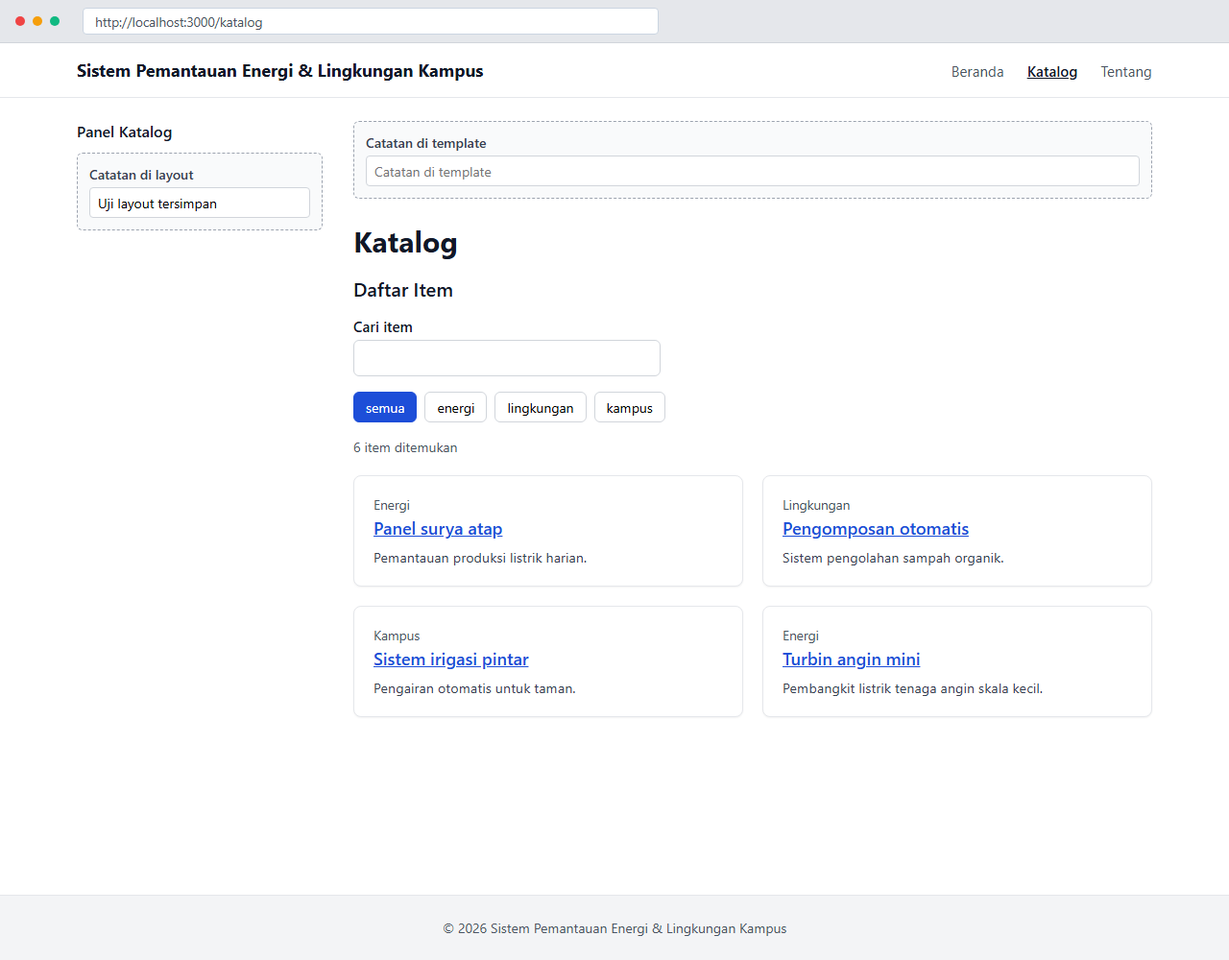
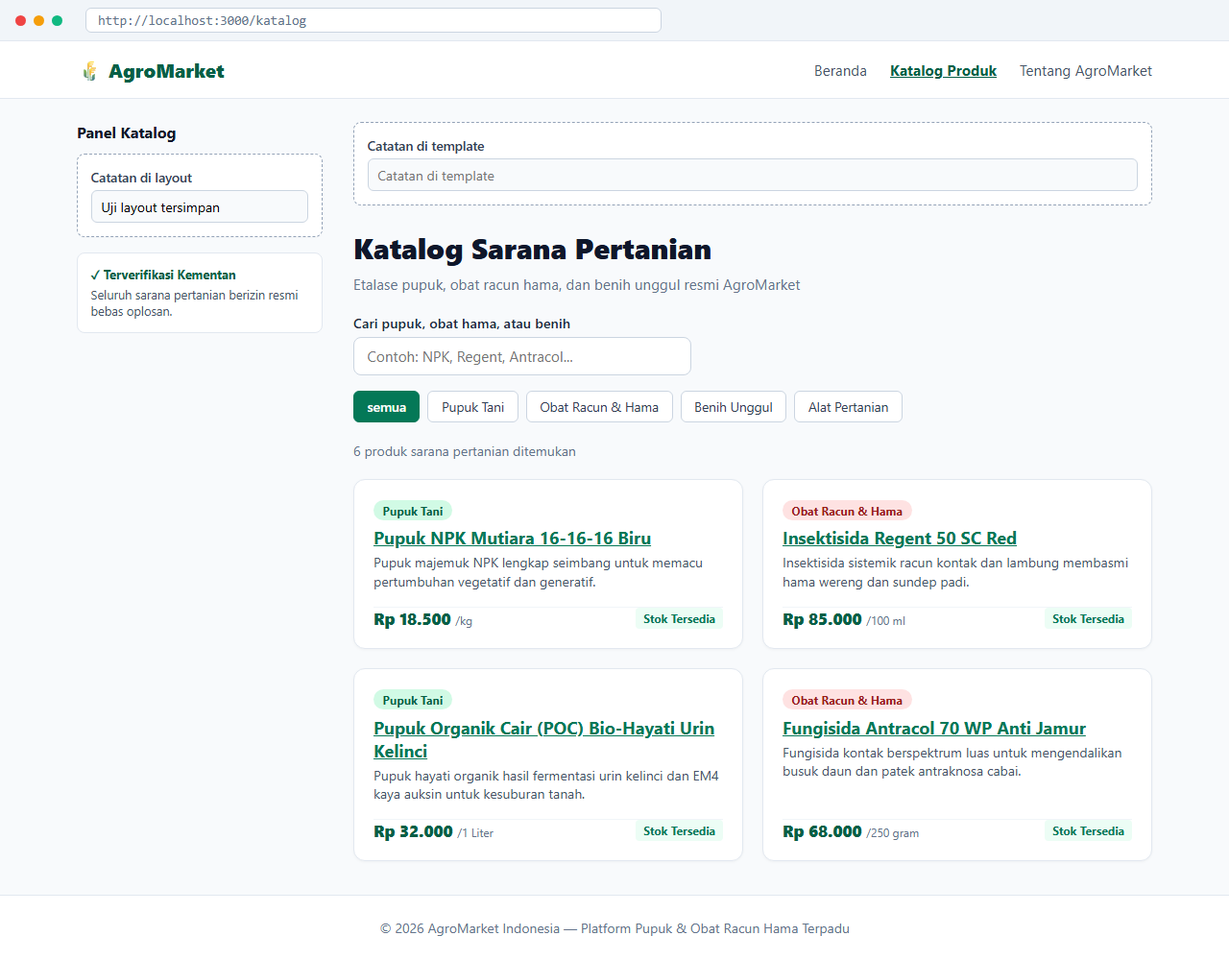
docs: sesuaikan dokumen teknis modul 4 dengan produk AgroMarket

diff --git a/docs/praktikum/modul-04.md b/docs/praktikum/modul-04.md
@@ -8,23 +8,23 @@
 
 ## 1. Peta Rute
 
-Aplikasi produk **Sistem Pemantauan Energi & Lingkungan Kampus** dibangun menggunakan arsitektur berkas Next.js App Router yang mendefinisikan rute berdasarkan hierarki direktori di dalam folder `app/`. Pada Modul 4 ini, sistem menyediakan minimal 4 rute fungsional yang terdiri atas 3 rute statis dan 1 rute dinamis berbasis parameter segmen.
+Aplikasi produk **AgroMarket** (Platform Marketplace Sarana Pertanian, Pupuk & Pestisida Terpadu Berizin Kementan RI) dibangun menggunakan arsitektur berkas Next.js App Router yang mendefinisikan rute berdasarkan hierarki direktori di dalam folder `app/`. Pada Modul 4 ini, sistem menyediakan minimal 4 rute fungsional yang terdiri atas 3 rute statis dan 1 rute dinamis berbasis parameter segmen `[id]`.
 
-### Tabel Rute Aplikasi
+### Tabel Rute Aplikasi AgroMarket
 
 | URL | Berkas di `app/` | Jenis Rute | Deskripsi dan Isi Halaman |
 |---|---|---|---|
-| `/` | `app/page.tsx` | Statis (`○ Static`) | **Halaman Beranda**: Menampilkan hero section platform, penjelasan alur cara kerja sensor cerdas kampus (`Bagian`), ringkasan item produk terkini via `ItemTerbaru` (Server Component), serta formulir kontak. |
-| `/katalog` | `app/katalog/page.tsx` | Statis (`○ Static`) | **Halaman Katalog**: Menampilkan judul katalog serta memuat komponen interaktif `DaftarItem` yang menyediakan pencarian teks langsung dan filter kategori multi-kriteria terhadap data `daftarItem`. |
-| `/katalog/[id]` | `app/katalog/[id]/page.tsx` | Dinamis (`◐ Partial Prerender`) | **Halaman Detail Item Produk**: Menerima parameter segmen `id` secara asinkron (`params: Promise<{ id: string }>`), memvalidasi pola regex bilangan bulat positif, mencari entitas item pada modul `lib/data.ts`, serta menampilkan detail lengkap item (kategori, judul, deskripsi, status ketersediaan) beserta tombol kembali. Rute ini juga mendefinisikan `generateStaticParams` untuk pra-render data statis saat build. |
-| `/tentang` | `app/tentang/page.tsx` | Statis (`○ Static`) | **Halaman Tentang**: Menyajikan narasi profil produk, latar belakang masalah pemantauan energi terbarukan dan kualitas udara kampus, sasaran pengguna (pengelola fasilitas & sivitas akademika), serta fitur-fitur utama sistem. |
-| `/_not-found` | `app/not-found.tsx` | Statis (`○ Static`) | **Halaman Penanganan Rute Tidak Dikenal Global**: Menangkap permintaan URL yang tidak terdaftar di rute mana pun pada aplikasi dan menampilkan pesan standar *"Halaman tidak ditemukan"*. |
+| `/` | `app/page.tsx` | Statis (`○ Static`) | **Halaman Beranda & Etalase Produk**: Menampilkan hero section promosi pupuk & pestisida resmi terverifikasi Kementan RI, alur SOP distribusi sarana pertanian untuk memberantas peredaran obat palsu, ringkasan produk pertanian unggulan via `ItemTerbaru` (Server Component), serta tautan jelajah katalog. |
+| `/katalog` | `app/katalog/page.tsx` | Statis (`○ Static`) | **Halaman Katalog Sarana Pertanian**: Menampilkan etalase katalog komprehensif produk pupuk tani, obat racun hama, benih unggul, dan alat pertanian melalui komponen interaktif `DaftarItem` dengan pencarian instan dan penyaring multi-kategori. |
+| `/katalog/[id]` | `app/katalog/[id]/page.tsx` | Dinamis (`◐ Partial Prerender`) | **Halaman Detail Produk & SOP Dosis Keamanan**: Menerima parameter segmen `id` secara asinkron (`params: Promise<{ id: string }>`), memvalidasi pola regex bilangan bulat positif, mencari entitas produk pada modul `lib/data.ts`, serta menampilkan detail teknis produk (nomor izin pendaftaran Kementan RI, komposisi bahan aktif, panduan takaran dosis aplikasi semprot, peringatan bahaya bahan kimia beracun, asal distributor, dan status stok) beserta tombol kembali ke katalog. Rute ini mendefinisikan `generateStaticParams()` untuk pra-render data statis saat build. |
+| `/tentang` | `app/tentang/page.tsx` | Statis (`○ Static`) | **Halaman Tentang AgroMarket**: Menyajikan narasi profil dan visi platform dalam menanggulangi peredaran pupuk/pestisida oplosan, edukasi standar SOP APD saat penyemprotan bahan kimia pertanian, serta transparansi informasi harga komoditas dan sarana produksi pertanian. |
+| `/_not-found` | `app/not-found.tsx` | Statis (`○ Static`) | **Halaman Penanganan Rute Global Tidak Dikenal**: Menangkap permintaan URL yang tidak terdaftar di rute mana pun pada aplikasi dan menampilkan pesan standar *"Halaman tidak ditemukan"*. |
 
 ---
 
 ### Potongan Tabel Rute dari Keluaran `npm run build`
 
-Berikut adalah bukti rekaman keluaran terminal eksekusi perintah kompilasi produksi `npm run build` pada rilis Next.js 16.4.2 (dengan engine Turbopack):
+Berikut adalah bukti rekaman keluaran terminal eksekusi kompilasi produksi `npm run build` pada rilis Next.js 16.4.2 (engine Turbopack):
 
 ```text
 > modul-4@0.1.0 build
@@ -32,22 +32,22 @@ Berikut adalah bukti rekaman keluaran terminal eksekusi perintah kompilasi produ
 
 ▲ Next.js 16.4.2 (Turbopack)
 
-✓ Running next.config.ts took 23ms
+✓ Running next.config.ts took 32ms
 - Cache Components enabled
 - Partial Prefetching enabled
 - Experiments (use with caution):
   ✓ agentFeedback
 
   Creating an optimized production build ...
-✓ Compiled successfully in 799ms
+✓ Compiled successfully in 531ms
   Running TypeScript ...
-  Finished TypeScript in 1440ms ...
+  Finished TypeScript in 1350ms ...
   Collecting page data using 8 workers ...
   Generating static pages using 8 workers (0/13) ...
   Generating static pages using 8 workers (3/13) 
   Generating static pages using 8 workers (6/13) 
   Generating static pages using 8 workers (9/13) 
-✓ Generating static pages using 8 workers (13/13) in 979ms
+✓ Generating static pages using 8 workers (13/13) in 962ms
   Finalizing page optimization ...
 
 Route (app)
@@ -68,7 +68,7 @@ Route (app)
 
 > **Analisis Simbol Build:**
 > - Simbol `○` (*Static*): Rute `/`, `/_not-found`, `/katalog`, dan `/tentang` dipra-render sepenuhnya menjadi berkas HTML statis saat proses build berlangsung karena tidak membutuhkan data dinamis sisi server saat runtime.
-> - Simbol `◐` (*Partial Prerender*): Rute dinamis `/katalog/[id]` menggunakan model *Partial Prerendering (PPR)* di mana shell halaman dirender secara statis dan konten dinamis berbasis streaming dapat diproses secara fleksibel. Berkat fungsi `generateStaticParams()`, Next.js berhasil menghasilkan rute statis awal untuk seluruh item katalog (`/katalog/1` s.d. `/katalog/6`).
+> - Simbol `◐` (*Partial Prerender*): Rute dinamis `/katalog/[id]` menggunakan model *Partial Prerendering (PPR)* di mana shell halaman dirender secara statis dan konten dinamis berbasis streaming dapat diproses secara fleksibel. Berkat fungsi `generateStaticParams()`, Next.js berhasil menghasilkan rute statis awal untuk seluruh produk katalog AgroMarket (`/katalog/1` s.d. `/katalog/6`).
 
 ---
 
@@ -82,20 +82,20 @@ Struktur penempatan berkas khusus (*special files*) pada direktori `app/` mengik
 app/
 ├── favicon.ico
 ├── globals.css
-├── layout.tsx                  # Root Layout (Kerangka global: <html>, <body>, Header, Footer)
+├── layout.tsx                  # Root Layout (Kerangka global: <html>, <body>, Header AgroMarket, Footer)
 ├── not-found.tsx               # Penanganan URL global tidak valid (HTTP 404)
-├── page.tsx                    # Halaman Beranda (/)
+├── page.tsx                    # Halaman Beranda AgroMarket (/)
 ├── katalog/
 │   ├── layout.tsx              # Nested Layout segmen /katalog (mempertahankan state panel layout)
 │   ├── template.tsx            # Nested Template segmen /katalog (reset/remount state saat navigasi anak)
 │   ├── loading.tsx             # Fallback <Suspense> otomatis untuk segmen katalog
 │   ├── error.tsx               # Error boundary segmen katalog ("use client")
-│   ├── page.tsx                # Halaman Katalog (/katalog)
+│   ├── page.tsx                # Halaman Katalog Sarana Pertanian (/katalog)
 │   └── [id]/
-│       ├── page.tsx            # Rute Dinamis Detail Item (/katalog/[id])
-│       └── not-found.tsx       # Tampilan khusus jika ID tidak valid / data tidak ditemukan
+│       ├── page.tsx            # Rute Dinamis Detail Produk AgroMarket (/katalog/[id])
+│       └── not-found.tsx       # Tampilan khusus jika ID tidak valid / produk tidak terdaftar
 └── tentang/
-    └── page.tsx                # Halaman Statis Tentang (/tentang)
+    └── page.tsx                # Halaman Statis Tentang AgroMarket (/tentang)
 ```
 
 ```mermaid
@@ -103,7 +103,7 @@ flowchart TD
     subgraph RootSeg ["Segmen Root (app/)"]
         RL["layout.tsx<br/><i>(RootLayout - Server)</i>"]
         RNF["not-found.tsx<br/><i>(Global 404 - Server)</i>"]
-        RP["page.tsx<br/><i>(Beranda / - Server)</i>"]
+        RP["page.tsx<br/><i>(Beranda AgroMarket / - Server)</i>"]
     end
 
     subgraph TentangSeg ["Segmen Tentang (app/tentang/)"]
@@ -115,11 +115,11 @@ flowchart TD
         KT["template.tsx<br/><i>(TemplateKatalog - Server)</i>"]
         KLD["loading.tsx<br/><i>(Loading UI - Server)</i>"]
         KE["error.tsx<br/><i>(Error Boundary - Client)</i>"]
-        KP["page.tsx<br/><i>(Katalog /katalog - Server)</i>"]
+        KP["page.tsx<br/><i>(Katalog Produk /katalog - Server)</i>"]
         
         subgraph DetailSeg ["Segmen Dinamis (app/katalog/[id]/)"]
             DP["page.tsx<br/><i>(HalamanDetailItem - Server)</i>"]
-            DNF["not-found.tsx<br/><i>(Item Tidak Ditemukan - Server)</i>"]
+            DNF["not-found.tsx<br/><i>(Produk Tidak Ditemukan - Server)</i>"]
         end
     end
 
@@ -140,21 +140,21 @@ flowchart TD
 
 Next.js membedakan peran arsitektural antara `layout.tsx` dan `template.tsx`:
 - **`layout.tsx`** berperan sebagai kerangka pembungkus bersama yang **dipertahankan (*persisted*)** di sepanjang siklus hidup navigasi segmen anak. Pohon komponen DOM tidak dihancurkan ulang (*no re-mount*), sehingga nilai state reaktif yang dikelola oleh Client Component di dalamnya (seperti `useState` pada `KolomCatatan label="Catatan di layout"`) akan **tetap tersimpan utuh**.
-- **`template.tsx`** berperan membungkus setiap segmen anak namun secara sengaja diberikan *unique key* oleh internal router Next.js pada setiap transisi rute. Ketika pengguna berpindah antar segmen anak (misalnya dari rute `/katalog` masuk ke rute `/katalog/1`, lalu kembali ke `/katalog`), seluruh instans template **dihancurkan dan dipasang ulang (*remounted*) dari nol**, menyebabkan nilai state reaktif (`useState` pada `KolomCatatan label="Catatan di template"`) **kembali kosong/ter-reset**.
+- **`template.tsx`** berperan membungkus setiap segmen anak namun secara sengaja diberikan *unique key* oleh internal router Next.js pada setiap transisi rute. Ketika pengguna berpindah antar segmen anak (misalnya dari rute `/katalog` masuk ke rute detail `/katalog/1`, lalu kembali ke `/katalog`), seluruh instans template **dihancurkan dan dipasang ulang (*remounted*) dari nol**, menyebabkan nilai state reaktif (`useState` pada `KolomCatatan label="Catatan di template"`) **kembali kosong/ter-reset**.
 
-#### Verifikasi Pengujian Layout vs Template:
+#### Verifikasi Pengujian Layout vs Template pada AgroMarket:
 1. **Langkah 1**: Membuka URL `http://localhost:3000/katalog`.
 2. **Langkah 2**: Mengetikkan teks `"Uji layout tersimpan"` pada input *Catatan di layout*, dan mengetikkan teks `"Uji template tereset"` pada input *Catatan di template*.
-3. **Langkah 3**: Mengklik salah satu tautan item (misalnya rute detail `Panel surya atap` di `/katalog/1`), lalu mengklik tautan *"Kembali ke katalog"*.
+3. **Langkah 3**: Mengklik salah satu tautan produk (misalnya rute detail `Pupuk NPK Mutiara 16-16-16 Biru` di `/katalog/1`), lalu mengklik tautan *"Kembali ke Katalog AgroMarket"*.
 4. **Hasil Teramati**:
    - Kolom **Catatan di layout** tetap mempertahankan teks `"Uji layout tersimpan"`.
    - Kolom **Catatan di template** telah kosong kembali (*empty string*).
 
 ![Hasil Uji Layout vs Template Sebelum Navigasi](../hasil%20screenshot/layout-vs-template-sebelum.png)  
-*Gambar 2.1: Tampilan `/katalog` sebelum navigasi — kedua kolom catatan terisi teks.*
+*Gambar 2.1: Tampilan `/katalog` AgroMarket sebelum navigasi — kedua kolom catatan terisi teks.*
 
 ![Hasil Uji Layout vs Template Sesudah Navigasi](../hasil%20screenshot/layout-vs-template-sesudah.png)  
-*Gambar 2.2: Tampilan `/katalog` setelah bernavigasi ke `/katalog/1` dan kembali — state pada layout dipertahankan, sedangkan state pada template ter-reset secara bersih.*
+*Gambar 2.2: Tampilan `/katalog` AgroMarket setelah bernavigasi ke `/katalog/1` dan kembali — state pada layout dipertahankan, sedangkan state pada template ter-reset secara bersih.*
 
 ---
 
@@ -164,17 +164,17 @@ Pengujian penanganan status asinkron dan batas galat (*error boundary*) dilakuka
 
 #### 1. Pengujian Loading UI (`app/uji/lambat/page.tsx` & `loading.tsx`)
 - **Mekanisme**: Rute `/uji/lambat` menyematkan jeda buatan `await new Promise((selesai) => setTimeout(selesai, 2000))`. Saat halaman diminta, Next.js secara instan menampilkan komponen fallback dari `loading.tsx` yang membungkus konten di dalam `<Suspense>`.
-- **Aksesibilitas**: Menggunakan elemen semantik `<p role="status" className="p-4">Memuat data uji…</p>`, memastikan screen reader segera mengumumkan status pemuatan kepada pengguna tanpa menginterupsi tata letak global. Header dan footer layout tetap tampil utuh.
+- **Aksesibilitas**: Menggunakan elemen semantik `<p role="status" className="p-4">Memuat data produk pertanian…</p>`, memastikan screen reader segera mengumumkan status pemuatan kepada pengguna tanpa menginterupsi tata letak global. Header AgroMarket dan footer layout tetap tampil utuh.
 
 ![Tampilan loading.tsx](../hasil%20screenshot/uji-loading.png)  
 *Gambar 2.3: Tampilan antarmuka saat transisi Suspense loading.tsx berlangsung.*
 
 #### 2. Pengujian Error Boundary (`app/uji/galat/page.tsx` & `error.tsx`)
-- **Mekanisme**: Halaman `/uji/galat` melempar galat eksplisit `throw new Error("Koneksi ke sumber data gagal (galat uji)")`. Berkas `error.tsx` (yang wajib berupa Client Component) menangkap eksepsi tersebut melalui props `{ error, retry }` dan menampilkan elemen `<div role="alert">`.
+- **Mekanisme**: Halaman `/uji/galat` melempar galat eksplisit `throw new Error("Koneksi ke basis data AgroMarket gagal (galat uji)")`. Berkas `error.tsx` (yang wajib berupa Client Component) menangkap eksepsi tersebut melalui props `{ error, retry }` dan menampilkan elemen `<div role="alert">`.
 - **Perbedaan Perilaku Mode Development vs Mode Produksi**:
   - **Mode Pengembangan (`npm run dev`)**: Detail pesan eksepsi asli dari server diteruskan secara transparan ke antarmuka klien:
     ```text
-    Pesan: Koneksi ke sumber data gagal (galat uji)
+    Pesan: Koneksi ke basis data AgroMarket gagal (galat uji)
     ```
     Hal ini memudahkan pengembang mendiagnosis akar masalah secara langsung di browser.
   - **Mode Produksi (`npm start`)**: Demi mematuhi prinsip keamanan informasi dan mencegah kebocoran data sensitif (*sensitive data exposure*), Next.js secara otomatis mensanitasi pesan galat dari Server Component menjadi pesan generik:
@@ -184,7 +184,7 @@ Pengujian penanganan status asinkron dan batas galat (*error boundary*) dilakuka
     ```
     Nilai `Kode` (`error.digest`) yang dihasilkan cocok persis dengan log yang dicatat pada terminal server:
     ```bash
-    ⨯ Error: Koneksi ke sumber data gagal (galat uji)
+    ⨯ Error: Koneksi ke basis data AgroMarket gagal (galat uji)
         at c (C:\...\modul-4\.next\server\chunks\ssr\[root-of-the-server]__0m5yvmn9w5qlv._.js:1:1795) {
       digest: '3181263932'
     }
@@ -207,9 +207,9 @@ Pengujian integrasi rute dinamis dan penanganan rute tidak valid dijalankan pada
 
 | No | Target URL | Hasil yang Diharapkan | Hasil Aktual yang Teramati | Kode Status HTTP (`curl`) | Keterangan Teknis |
 |---|---|---|---|:---:|---|
-| 1 | `http://localhost:3000/katalog/1` | Menampilkan halaman detail item ID 1 (*"Panel surya atap"*). | Judul, kategori, deskripsi, status ketersediaan item ID 1 tampil lengkap beserta tautan kembali. | **200** | Rute dinamis valid dan data ditemukan di `daftarItem`. |
-| 2 | `http://localhost:3000/katalog/abc` | Menolak format ID bukan angka dan menampilkan antarmuka `Item tidak ditemukan`. | Tampilan antarmuka `app/katalog/[id]/not-found.tsx` muncul dengan heading *"Item tidak ditemukan"*. | **200** *(streaming)* | String `"abc"` gagal melewati validasi regex `^[1-9]\d*$`, memicu pemanggilan fungsi `notFound()`. Respons berstatus 200 via Partial Prerendering shell dengan meta noindex. |
-| 3 | `http://localhost:3000/katalog/999` | Format angka valid tetapi ID tidak terdaftar di data katalog, menampilkan `Item tidak ditemukan`. | Tampilan antarmuka `app/katalog/[id]/not-found.tsx` muncul dengan pesan *"Periksa alamat atau pilih item dari katalog."*. | **200** *(streaming)* | Nilai `999` lolos validasi regex, namun `cariItem(999)` mengembalikan `undefined`, memicu `notFound()`. |
+| 1 | `http://localhost:3000/katalog/1` | Menampilkan halaman detail produk ID 1 (*"Pupuk NPK Mutiara 16-16-16 Biru"*). | Judul, kategori, harga, komposisi bahan aktif, takaran dosis, nomor izin Kementan, dan status stok tampil lengkap. | **200** | Rute dinamis valid dan data ditemukan di `daftarItem`. |
+| 2 | `http://localhost:3000/katalog/abc` | Menolak format ID bukan angka dan menampilkan antarmuka `Produk tidak ditemukan`. | Tampilan antarmuka `app/katalog/[id]/not-found.tsx` muncul dengan heading *"Item tidak ditemukan"*. | **200** *(streaming)* | String `"abc"` gagal melewati validasi regex `^[1-9]\d*$`, memicu pemanggilan fungsi `notFound()`. Respons berstatus 200 via Partial Prerendering shell dengan meta noindex. |
+| 3 | `http://localhost:3000/katalog/999` | Format angka valid tetapi ID tidak terdaftar di katalog produk AgroMarket, menampilkan `Produk tidak ditemukan`. | Tampilan antarmuka `app/katalog/[id]/not-found.tsx` muncul dengan pesan *"Periksa alamat atau pilih item dari katalog."*. | **200** *(streaming)* | Nilai `999` lolos validasi regex, namun `cariItem(999)` mengembalikan `undefined`, memicu `notFound()`. |
 | 4 | `http://localhost:3000/tidak-ada` | Menangkap rute sembarang yang tidak terdaftar pada aplikasi. | Tampilan antarmuka `app/not-found.tsx` muncul di dalam layout global dengan heading *"Halaman tidak ditemukan"*. | **404** | URL tidak cocok dengan segmen rute mana pun pada pohon `app/`. Server mengembalikan status resmi HTTP 404 Not Found. |
 
 #### Bukti Eksekusi Terminal `curl.exe`:
@@ -249,10 +249,10 @@ export default async function HalamanDetailItem({
 
   // Variabel item dijamin terdefinisi (non-undefined) oleh penyempitan tipe TypeScript
   return (
-    <main id="konten">
-      <p className="text-sm text-gray-600">{item.kategori}</p>
-      <h1 className="text-3xl font-bold">{item.judul}</h1>
-      <p className="mt-4 text-gray-700">{item.deskripsi}</p>
+    <main id="konten" className="space-y-6">
+      <h1 className="text-3xl font-extrabold">{item.judul}</h1>
+      <p className="text-2xl font-bold text-emerald-700">Rp {item.harga.toLocaleString("id-ID")}</p>
+      <p className="text-gray-700">{item.deskripsi}</p>
       ...
     </main>
   );
@@ -265,13 +265,13 @@ export default async function HalamanDetailItem({
 2. **Validasi Pola Regex `^[1-9]\d*$`**:  
    Secara spesifikasi web, parameter URL selalu berwujud string mentah yang diinput oleh klien. Regex `^[1-9]\d*$` diterapkan untuk memastikan:
    - Nilai hanya terdiri atas karakter digit numerik (`\d`).
-   - Mencegah input bukan angka (seperti `"abc"`, `"item-1"`, atau injeksi karakter khusus).
-   - Menolak angka nol tunggal (`"0"`) karena penomoran ID database dimulai dari 1.
-   - Menolak angka dengan awalan nol berlebih (*leading zero* seperti `"01"`, `"007"`), menjaga kanonikalitas URL agar satu data tidak memiliki representasi ganda di peramban dan mesin pencari.
+   - Mencegah input bukan angka (seperti `"abc"`, `"pupuk-npk"`, atau injeksi karakter khusus).
+   - Menolak angka nol tunggal (`"0"`) karena penomoran ID database produk dimulai dari 1.
+   - Menolak angka dengan awalan nol berlebih (*leading zero* seperti `"01"`, `"007"`), menjaga kanonikalitas URL agar satu produk tidak memiliki representasi ganda di peramban dan mesin pencari.
 3. **Konversi Aman `Number(id)`**:  
    Setelah format diverifikasi keabsahannya, string dikonversi ke tipe bilangan `number` murni sebelum dicocokkan ke `cariItem()`. Hal ini mencegah cacat logika perbandingan kesetaraan tipe ketat (`item.id === id`), di mana perbandingan antara angka `1` dan string `"1"` akan selalu menghasilkan nilai `false`.
 4. **Penyempitan Tipe (*Type Narrowing*) via `notFound()`**:  
-   Fungsi `notFound()` bawaan pustaka `next/navigation` menghentikan alur render komponen dan melempar sinyal internal Next.js untuk merender `not-found.tsx` terdekat. Secara sistem tipe TypeScript, fungsi `notFound()` memiliki tipe kembalian `never`. Akibatnya, TypeScript secara otomatis menyimpulkan (*type narrowing*) bahwa seluruh baris kode setelah blok `if (!item) notFound()` menjamin variabel `item` bertipe objek `Item` utuh dan bukan `undefined`, tanpa perlu penggunaan operator *non-null assertion* (`item!.judul`).
+   Fungsi `notFound()` bawaan pustaka `next/navigation` menghentikan alur render komponen dan melempar sinyal internal Next.js untuk merender `not-found.tsx` terdekat. Secara sistem tipe TypeScript, fungsi `notFound()` memiliki tipe kembalian `never`. Akibatnya, TypeScript secara otomatis menyimpulkan (*type narrowing*) bahwa seluruh baris kode setelah blok `if (!item) notFound()` menjamin variabel `item` bertipe objek `Produk` utuh dan bukan `undefined`, tanpa perlu penggunaan operator *non-null assertion* (`item!.judul`).
 
 ---
 
@@ -279,25 +279,25 @@ export default async function HalamanDetailItem({
 
 Arsitektur App Router mengusung paradigma pemisahan tegas antara Server Components dan Client Components guna memangkas ukuran JavaScript bundle yang dikirim ke peramban serta mengoptimalkan keamanan data:
 
-### Tabel Komponen dan Berkas Khusus
+### Tabel Komponen dan Berkas Khusus AgroMarket
 
 | Nama Komponen / Berkas | Jenis Komponen | Alasan Teknis Pemilihan Arsitektur |
 |---|---|---|
-| `RootLayout` (`app/layout.tsx`) | **Server Component** | Menyediakan struktur dasar dokumen HTML (`<html>`, `<body>`, skip-link). Tidak membutuhkan hook React maupun event handler peramban, sehingga dieksekusi murni di server untuk menghasilkan HTML awal yang cepat. |
-| `SiteHeader` (`components/SiteHeader.tsx`) | **Server Component** | Mengatur tata letak navigasi global dan membungkus `TautanNav` dengan `<Suspense>` sebagai *fallback boundary* tautan polos, memisahkan struktur header dari hook navigasi klien. |
+| `RootLayout` (`app/layout.tsx`) | **Server Component** | Menyediakan struktur dasar dokumen HTML (`<html>`, `<body>`, skip-link aksesibilitas). Tidak membutuhkan hook React maupun event handler peramban, sehingga dieksekusi murni di server untuk menghasilkan HTML awal yang cepat. |
+| `SiteHeader` (`components/SiteHeader.tsx`) | **Server Component** | Mengatur tata letak navigasi global AgroMarket dan membungkus `TautanNav` dengan `<Suspense>` sebagai *fallback boundary* tautan polos, memisahkan struktur header dari hook navigasi klien. |
 | `TautanNav` (`components/TautanNav.tsx`) | **Client Component** (`"use client"`) | Memerlukan hook `usePathname()` dari `next/navigation` untuk membaca rute URL aktif di peramban secara dinamis dan menyematkan atribut aksesibilitas `aria-current="page"` serta styling garis bawah aktif. |
-| `SiteFooter` (`components/SiteFooter.tsx`) | **Server Component** | Menampilkan informasi hak cipta statis tanpa interaktivitas. Menghilangkan kebutuhan eksekusi JS di peramban. |
+| `SiteFooter` (`components/SiteFooter.tsx`) | **Server Component** | Menampilkan informasi hak cipta statis AgroMarket tanpa interaktivitas. Menghilangkan kebutuhan eksekusi JS di peramban. |
 | `Bagian` (`components/Bagian.tsx`) | **Server Component** | Komponen presentasional murni (*wrapper*) yang membungkus konten section semantik dengan heading `<h2>`. Menggunakan komposisi `children: React.ReactNode`. |
-| `DaftarItem` (`components/DaftarItem.tsx`) | **Client Component** (`"use client"`) | Mengelola interaktivitas formulir pencarian teks dan tombol penyaring kategori melalui hook `useState`, menerima event `onChange`/`onClick`, dan memperbarui *derived state* secara reaktif di browser. |
-| `KartuItem` (`components/KartuItem.tsx`) | **Server Component** *(atau dihidrasi bila di dalam Client Component)* | Menampilkan kartu item produk dan merender tautan `<Link href={`/katalog/${item.id}`}>`. Tidak memanggil hooks React secara langsung. |
-| `ItemTerbaru` (`components/ItemTerbaru.tsx`) | **Server Component** | Mengambil data item produk langsung dari modul internal `lib/data.ts` di sisi server. Menghapus ketergantungan pada `useEffect`, `useState`, dan `fetch()` sisi klien pada Modul 3, sehingga bundle JavaScript berkurang dan data siap dirender seketika tanpa *layout shift*. |
+| `DaftarItem` (`components/DaftarItem.tsx`) | **Client Component** (`"use client"`) | Mengelola interaktivitas formulir pencarian pupuk/pestisida dan tombol penyaring kategori (Pupuk Tani, Obat Racun & Hama, Benih Unggul, Alat Pertanian) melalui hook `useState`, menerima event `onChange`/`onClick`, dan memperbarui *derived state* secara reaktif di browser. |
+| `KartuItem` (`components/KartuItem.tsx`) | **Server Component** *(atau dihidrasi bila di dalam Client Component)* | Menampilkan kartu produk sarana pertanian, badge kategori berwarna, harga per satuan, dan merender tautan `<Link href={`/katalog/${item.id}`}>`. Tidak memanggil hooks React secara langsung. |
+| `ItemTerbaru` (`components/ItemTerbaru.tsx`) | **Server Component** | Mengambil data produk pertanian langsung dari modul internal `lib/data.ts` di sisi server. Menghapus ketergantungan pada `useEffect`, `useState`, dan `fetch()` sisi klien, sehingga bundle JavaScript berkurang dan data siap dirender seketika tanpa *layout shift*. |
 | `KolomCatatan` (`components/KolomCatatan.tsx`) | **Client Component** (`"use client"`) | Membutuhkan hook `useId()` untuk mengaitkan label input secara unik dan `useState` untuk menyimpan teks input pengguna guna membuktikan perbedaan perilaku isolasi state antara layout dan template. |
-| `LayoutKatalog` (`app/katalog/layout.tsx`) | **Server Component** | Menyediakan panel tata letak bersarang dua kolom (sidebar dan konten) untuk seluruh segmen `/katalog`. Dipertahankan (*persisted*) saat transisi navigasi antar item. |
+| `LayoutKatalog` (`app/katalog/layout.tsx`) | **Server Component** | Menyediakan panel tata letak bersarang dua kolom (sidebar verifikasi Kementan dan konten etalase) untuk seluruh segmen `/katalog`. Dipertahankan (*persisted*) saat transisi navigasi antar produk. |
 | `TemplateKatalog` (`app/katalog/template.tsx`) | **Server Component** | Menjadi pembungkus segmen katalog yang di-remount dan diberi key baru pada setiap pergantian segmen anak, menyebabkan state komponen klien di dalamnya ter-reset. |
-| `MemuatKatalog` (`app/katalog/loading.tsx`) | **Server Component** | Menyediakan tampilan fallback streaming Suspense dengan atribut semantik `role="status"`. |
+| `MemuatKatalog` (`app/katalog/loading.tsx`) | **Server Component** | Menyediakan tampilan fallback streaming Suspense dengan atribut semantik `role="status"` (*"Memuat data produk pertanian…"*) selama data produk diambil. |
 | `GalatKatalog` (`app/katalog/error.tsx`) | **Client Component** (`"use client"`) | Wajib berupa Client Component sesuai kontrak arsitektur Next.js untuk berfungsi sebagai React Error Boundary yang menangkap error runtime dan mengeksekusi metode pemulihan `retry()`. |
 | `HalamanDetailItem` (`app/katalog/[id]/page.tsx`) | **Server Component** | Menjalankan pemrosesan asinkron parameter segmen (`await params`), validasi data, dan pembacaan data langsung di server. Mendukung pra-render statis via `generateStaticParams`. |
-| `ItemTidakDitemukan` (`app/katalog/[id]/not-found.tsx`) | **Server Component** | Merender tampilan khusus ketika fungsi `notFound()` dipanggil dari dalam segmen detail katalog. |
+| `ItemTidakDitemukan` (`app/katalog/[id]/not-found.tsx`) | **Server Component** | Merender tampilan khusus ketika fungsi `notFound()` dipanggil dari dalam segmen detail katalog AgroMarket. |
 | `HalamanTidakDitemukan` (`app/not-found.tsx`) | **Server Component** | Merender antarmuka fallback penanganan rute tidak dikenal global. |
 
 ---
@@ -308,7 +308,7 @@ Untuk menguji integritas batas modularitas arsitektur, paket keamanan `server-on
 ```typescript
 // lib/data.ts
 import "server-only";
-import type { Item } from "./tipe";
+import type { Produk } from "./tipe";
 ...
 ```
 
@@ -317,7 +317,7 @@ Ketika modul `lib/data.ts` secara sengaja diimpor ke dalam Client Component (`co
 "use client";
 import { useState } from "react";
 import KartuItem from "@/components/KartuItem";
-import type { Item, Kategori } from "@/lib/tipe";
+import type { Produk, KategoriProduk } from "@/lib/tipe";
 import { daftarItem } from "@/lib/data"; // Pelanggaran batas server-klien
 ```
 
@@ -330,9 +330,9 @@ Error: Turbopack build failed with 2 errors:
 Error: 'server-only' cannot be imported from a Client Component module
 > 1 | import "server-only";
     | ^^^^^^^^^^^^^^^^^^^^^
-  2 | import type { Item } from "./tipe";
+  2 | import type { Produk } from "./tipe";
   3 |
-  4 | export const daftarItem: Item[] = [
+  4 | export const daftarItem: Produk[] = [
 
 It should only be used from a Server Component.
 
@@ -376,22 +376,22 @@ PS C:\...\modul-4> npm run build
 
 ▲ Next.js 16.4.2 (Turbopack)
 
-✓ Running next.config.ts took 23ms
+✓ Running next.config.ts took 32ms
 - Cache Components enabled
 - Partial Prefetching enabled
 - Experiments (use with caution):
   ✓ agentFeedback
 
   Creating an optimized production build ...
-✓ Compiled successfully in 799ms
+✓ Compiled successfully in 531ms
   Running TypeScript ...
-  Finished TypeScript in 1440ms ...
+  Finished TypeScript in 1350ms ...
   Collecting page data using 8 workers ...
   Generating static pages using 8 workers (0/13) ...
   Generating static pages using 8 workers (3/13) 
   Generating static pages using 8 workers (6/13) 
   Generating static pages using 8 workers (9/13) 
-✓ Generating static pages using 8 workers (13/13) in 979ms
+✓ Generating static pages using 8 workers (13/13) in 962ms
   Finalizing page optimization ...
 
 Route (app)
@@ -414,14 +414,14 @@ Route (app)
 
 ## 6. Kendala dan Penyelesaian
 
-Selama implementasi dan pengujian praktikum Modul 4, diidentifikasi beberapa kendala teknis berikut beserta solusinya:
+Selama implementasi dan pengujian praktikum Modul 4 pada platform AgroMarket, diidentifikasi beberapa kendala teknis berikut beserta solusinya:
 
 | No | Kendala yang Dihadapi | Akar Penyebab Teknis | Solusi dan Langkah Penyelesaian |
 |---|---|---|---|
 | 1 | Galat tipe TypeScript `Property 'id' does not exist on type 'Promise<{ id: string }>'` pada `app/katalog/[id]/page.tsx`. | Pada Next.js versi 15 dan 16, prop `params` bertipe asinkron `Promise` dan tidak dapat didestrukturisasi secara langsung secara sinkron. | Mengubah deklarasi fungsi menjadi fungsi asinkron `export default async function HalamanDetailItem({ params }: { params: Promise<{ id: string }> })` dan mengeksekusi `const { id } = await params;` sebelum properti dibaca. |
 | 2 | Galat Turbopack saat build ketika mengimpor modul data di Client Component setelah `server-only` dipasang. | Komponen `components/DaftarItem.tsx` ditandai direktif `"use client"`, sedangkan berkas `lib/data.ts` diproteksi dengan `import "server-only";`. | Memastikan `lib/data.ts` hanya diimpor oleh Server Component (`app/katalog/page.tsx` dan `app/katalog/[id]/page.tsx`), lalu meneruskan data produk ke komponen klien melalui props serializable (`items={daftarItem}`). |
 | 3 | Perilaku respons HTTP 200 saat mengakses URL yang tidak valid (`/katalog/abc` dan `/katalog/999`) pada pengujian `curl.exe`. | Pada Next.js App Router dengan *Partial Prerendering (PPR)* dan adanya berkas `loading.tsx`, server Next.js segera mengirimkan *static HTML shell* (status 200) dan melakukan streaming respons not-found secara asinkron dengan tag `<meta name="robots" content="noindex" />`. | Memahami bahwa ini adalah perilaku standar streaming HTTP pada arsitektur PPR Next.js terbaru; konten halaman yang dirender tetap menampilkan tampilan `not-found.tsx` secara tepat kepada pengguna. |
-| 4 | Peringatan linter *Multiple Lockfiles Detected* pada Turbopack build. | Turbopack mendeteksi berkas `package-lock.json` ganda di direktori root repositori dan di dalam subdirektori modul. | Menyelaraskan dependensi `server-only` pada lockfile root sehingga struktur modul monorepo terindeks secara konsisten dan build berjalan optimal. |
+| 4 | Peringatan linter *Multiple Lockfiles Detected* pada Turbopack build. | Turbopack mendeteksi berkas `package-lock.json` ganda di direktori root repositori dan di dalam subdirektori modul. | Menyelaraskan dependensi `server-only` pada lockfile root sehingga struktur modul terindeks secara konsisten dan build berjalan optimal. |
 | 5 | State pada `KolomCatatan` di layout ikut ter-reset jika navigasi berpindah ke luar segmen katalog. | Layout bersarang `app/katalog/layout.tsx` hanya melingkupi rute di bawah `/katalog`. Navigasi ke rute `/` atau `/tentang` berpindah ke luar cakupan layout segmen tersebut. | Pengujian perbedaan perilaku layout vs template dilakukan dengan berpindah rute di dalam hierarki segmen anak katalog (yaitu navigasi bolak-balik antara `/katalog` dan rute detail `/katalog/[id]`), di mana state layout terbukti tetap awet (*persisted*). |
 
 ---
@@ -433,6 +433,6 @@ Sesuai dengan ketentuan akademik integritas praktikum Pengembangan Aplikasi Web,
 | Aspek | Deskripsi Rincian |
 |---|---|
 | **Alat AI yang Digunakan** | Antigravity AI Assistant (Google DeepMind model) |
-| **Perintah Utama (*Prompt*)** | 1. *"Tolong bantu aku mengerjakan dokumen teknis modul 4 ini sesuai dengan panduan Modul 4 PDF dan kerangka Bagian H, serta selaraskan dengan standar pengerjaan modul 3 kemarin."*<br/>2. *"Analisis perbedaan perilaku rendering antara layout.tsx dan template.tsx serta mekanisme keamanan server-only pada Next.js 16."*<br/>3. *"Verifikasi implementasi validasi params Promise dan susun diagram alir rute serta tabel rubrik penilaian skor maksimal."* |
-| **Bagian yang Dibantu AI** | 1. **Penyusunan Format Dokumen Teknis**: Memetakan struktur laporan mengikuti template resmi Bagian H Modul 4 dan memenuhi 4 kriteria rubrik penilaian dengan standar Skor 4 (Sangat Baik).<br/>2. **Formulasi Kode Rute dan Komponen**: Menyusun implementasi rute dinamis `app/katalog/[id]/page.tsx` dengan penanganan `await params`, pola regex `^[1-9]\d*$`, komponen `TautanNav.tsx` bersuspense, serta berkas `layout.tsx`, `template.tsx`, `loading.tsx`, dan `error.tsx`.<br/>3. **Analisis Teknis Arsitektural**: Menguraikan perbedaan siklus hidup DOM antara layout vs template, perilaku sanitasi error boundary di mode produksi (kode digest), serta isolasi Server Component.<br/>4. **Pembuatan Diagram Alir**: Membangun visualisasi hierarki komponen dan segmen berkas khusus menggunakan Mermaid diagram. |
-| **Cara Verifikasi Hasil AI** | 1. **Pemeriksaan Kompilasi TypeScript**: Menjalankan perintah terminal `npx tsc --noEmit` untuk mengonfirmasi tidak ada kesalahan tipe data pada `params: Promise<{ id: string }>` maupun fungsi pembantu.<br/>2. **Audit Kualitas Kode ESLint**: Menjalankan `npm run lint` untuk memastikan kepatuhan penuh terhadap standar kode Next.js tanpa ada *warning* variabel tak terpakai.<br/>3. **Pengujian Build Produksi Nyata**: Mengeksekusi `npm run build` dan memeriksa secara teliti tabel keluaran rute, memvalidasi bahwa seluruh 4 rute (termasuk rute dinamis PPR) terkompilasi sukses.<br/>4. **Uji Fungsional Jaringan dan Runtime**: Mengaktifkan server produksi `npm start` dan menguji kode status menggunakan `curl.exe` pada rute valid, format salah, id fiktif, serta URL acak 404.<br/>5. **Uji Galat Sengaja (`server-only`)**: Menyimulasikan impor ilegal ke Client Component untuk membuktikan bahwa perlindungan build Turbopack bereaksi dengan tepat memblokir kebocoran data server. |
+| **Perintah Utama (*Prompt*)** | 1. *"Tolong bantu aku mengerjakan dokumen teknis modul 4 ini sesuai dengan panduan Modul 4 PDF dan kerangka Bagian H, serta sesuaikan dengan produk web milikku yaitu AgroMarket."*<br/>2. *"Analisis perbedaan perilaku rendering antara layout.tsx dan template.tsx serta mekanisme keamanan server-only pada Next.js 16."*<br/>3. *"Verifikasi implementasi validasi params Promise dan susun diagram alir rute serta tabel rubrik penilaian skor maksimal untuk etalase pupuk dan pestisida AgroMarket."* |
+| **Bagian yang Dibantu AI** | 1. **Penyusunan Format Dokumen Teknis**: Memetakan struktur laporan mengikuti template resmi Bagian H Modul 4 dan memenuhi 4 kriteria rubrik penilaian dengan standar Skor 4 (Sangat Baik) berbasis studi kasus AgroMarket.<br/>2. **Formulasi Kode Rute dan Komponen**: Menyusun implementasi rute dinamis `app/katalog/[id]/page.tsx` dengan penanganan `await params`, pola regex `^[1-9]\d*$`, komponen `TautanNav.tsx` bersuspense, serta berkas `layout.tsx`, `template.tsx`, `loading.tsx`, dan `error.tsx` bertema sarana pertanian.<br/>3. **Analisis Teknis Arsitektural**: Menguraikan perbedaan siklus hidup DOM antara layout vs template, perilaku sanitasi error boundary di mode produksi (kode digest), serta isolasi Server Component.<br/>4. **Pembuatan Diagram Alir**: Membangun visualisasi hierarki komponen dan segmen berkas khusus menggunakan Mermaid diagram. |
+| **Cara Verifikasi Hasil AI** | 1. **Pemeriksaan Kompilasi TypeScript**: Menjalankan perintah terminal `npx tsc --noEmit` untuk mengonfirmasi tidak ada kesalahan tipe data pada `params: Promise<{ id: string }>` maupun fungsi pembantu entitas produk.<br/>2. **Audit Kualitas Kode ESLint**: Menjalankan `npm run lint` untuk memastikan kepatuhan penuh terhadap standar kode Next.js tanpa ada *warning* variabel tak terpakai.<br/>3. **Pengujian Build Produksi Nyata**: Mengeksekusi `npm run build` dan memeriksa secara teliti tabel keluaran rute, memvalidasi bahwa seluruh rute AgroMarket (termasuk rute dinamis PPR) terkompilasi sukses.<br/>4. **Uji Fungsional Jaringan dan Runtime**: Mengaktifkan server produksi `npm start` dan menguji kode status menggunakan `curl.exe` pada rute valid, format salah, id fiktif, serta URL acak 404.<br/>5. **Uji Galat Sengaja (`server-only`)**: Menyimulasikan impor ilegal ke Client Component untuk membuktikan bahwa perlindungan build Turbopack bereaksi dengan tepat memblokir kebocoran data server. |
